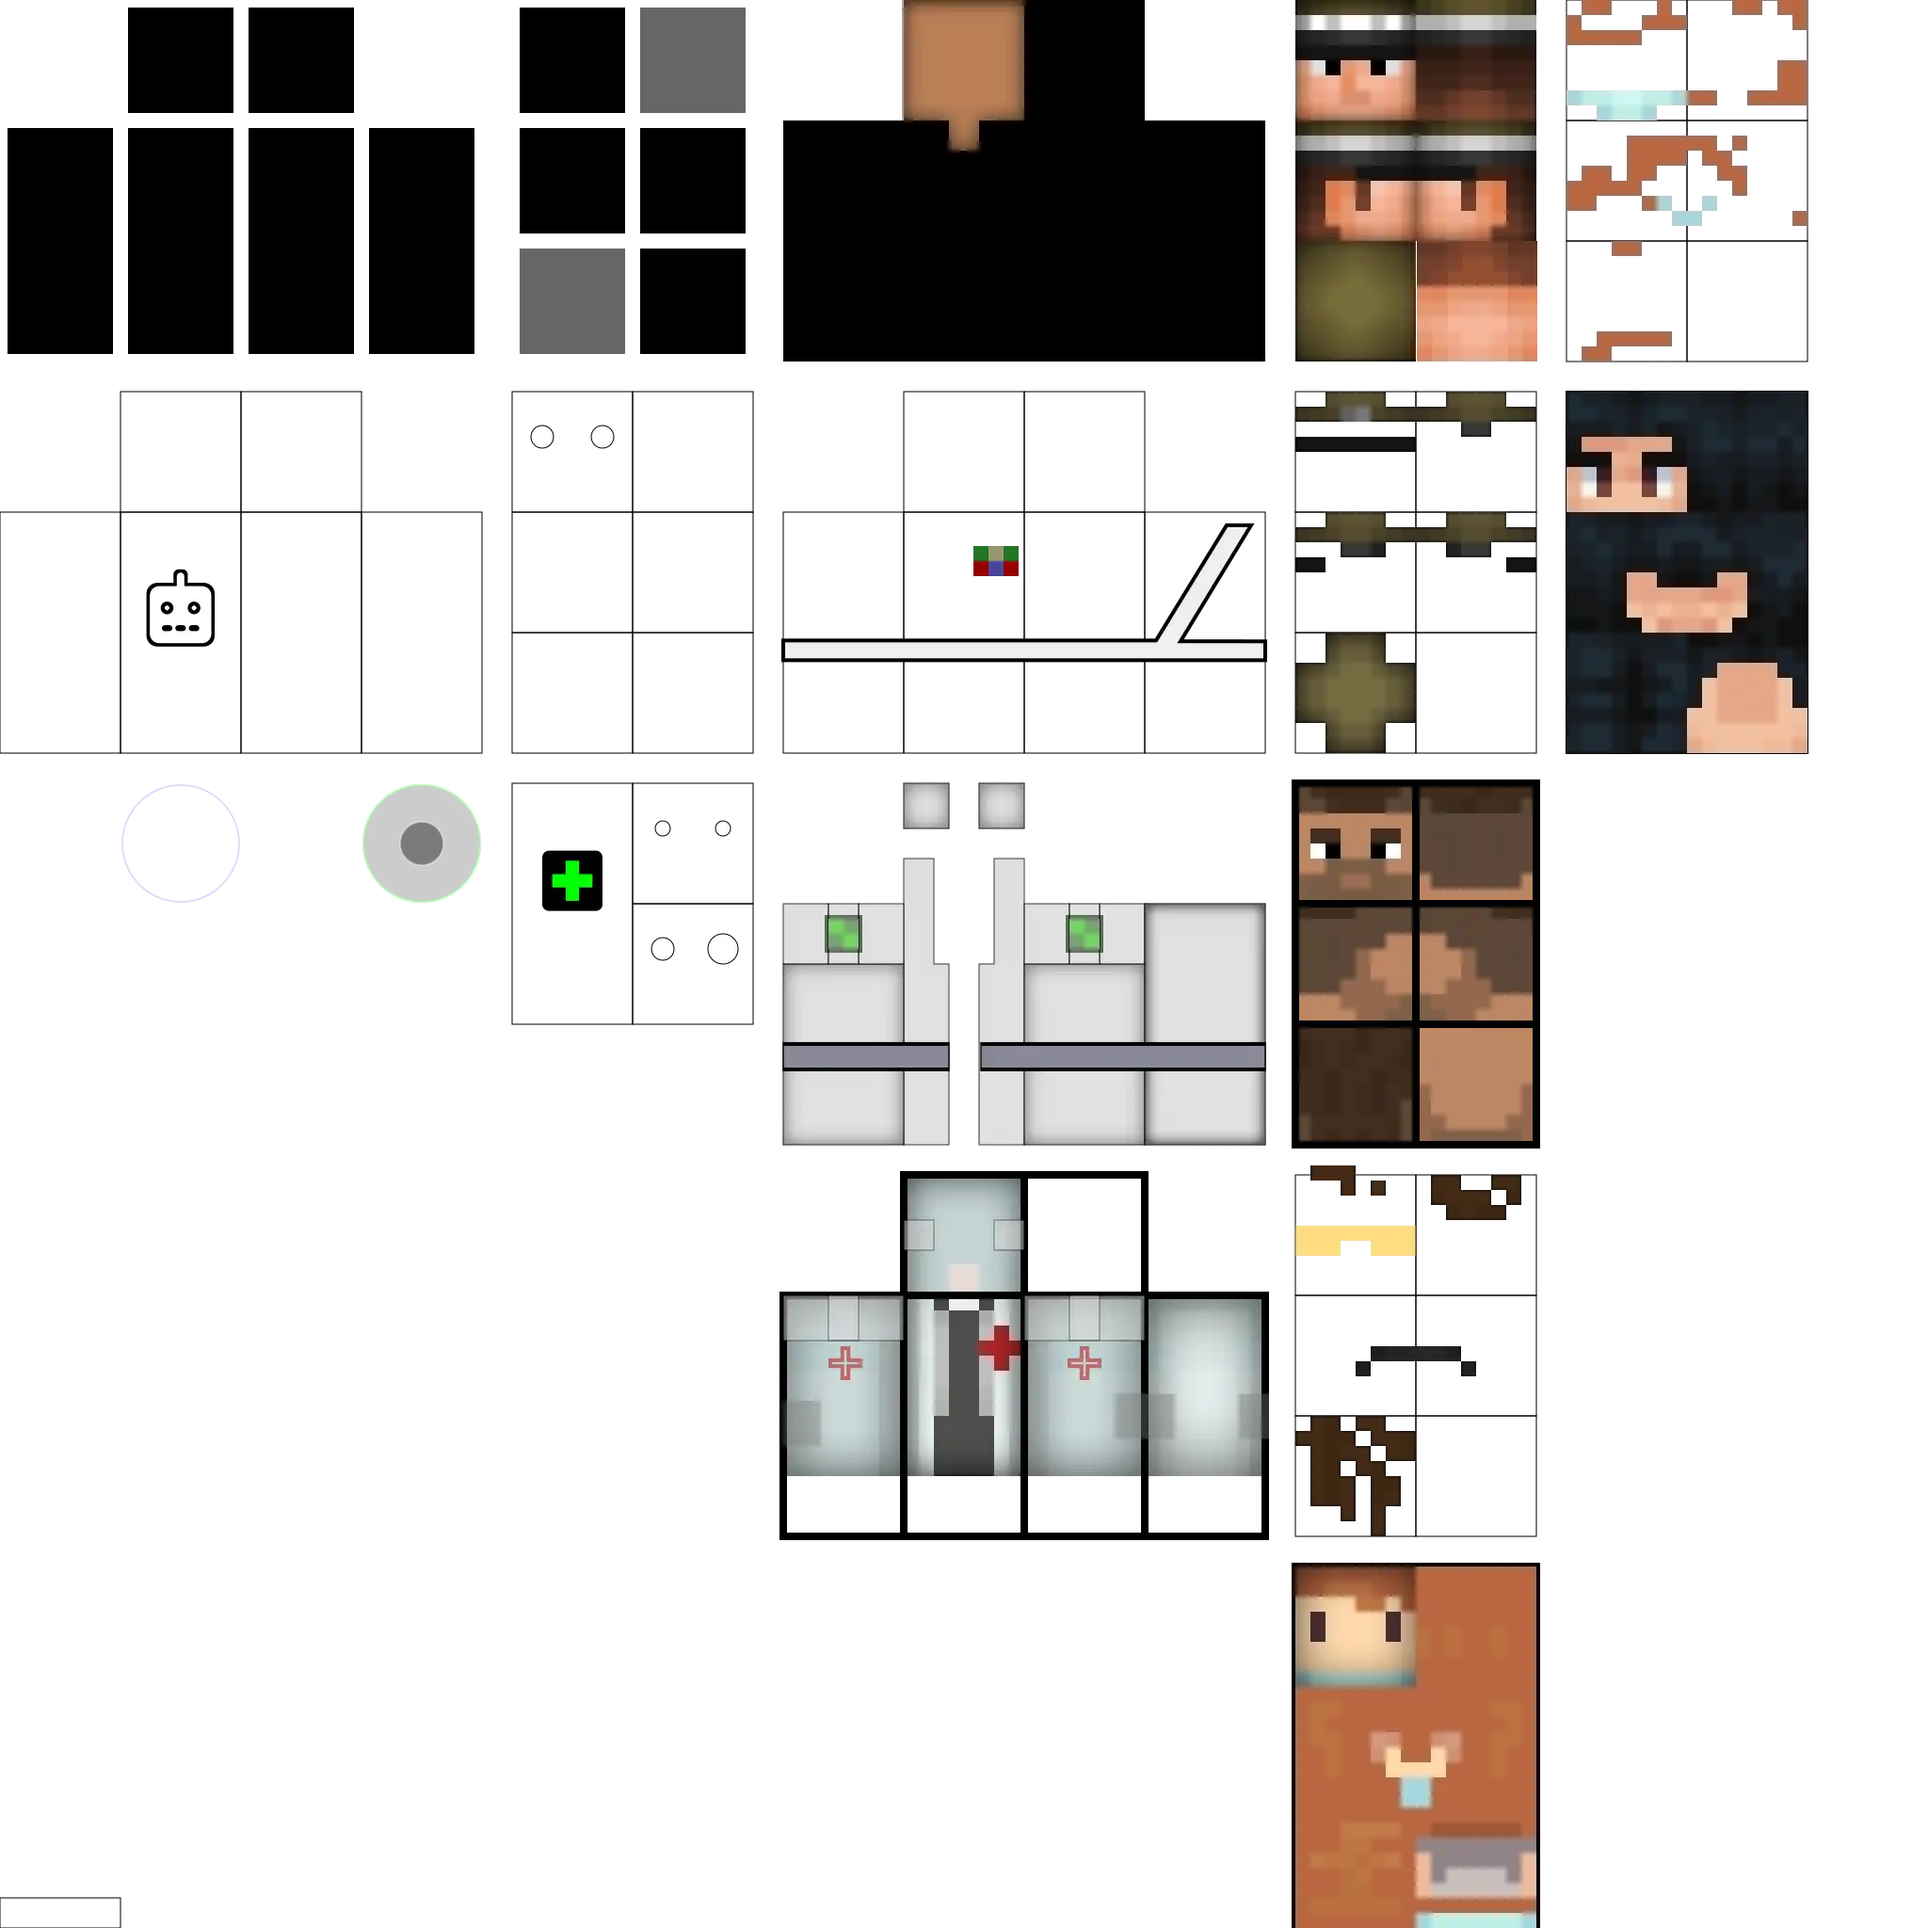
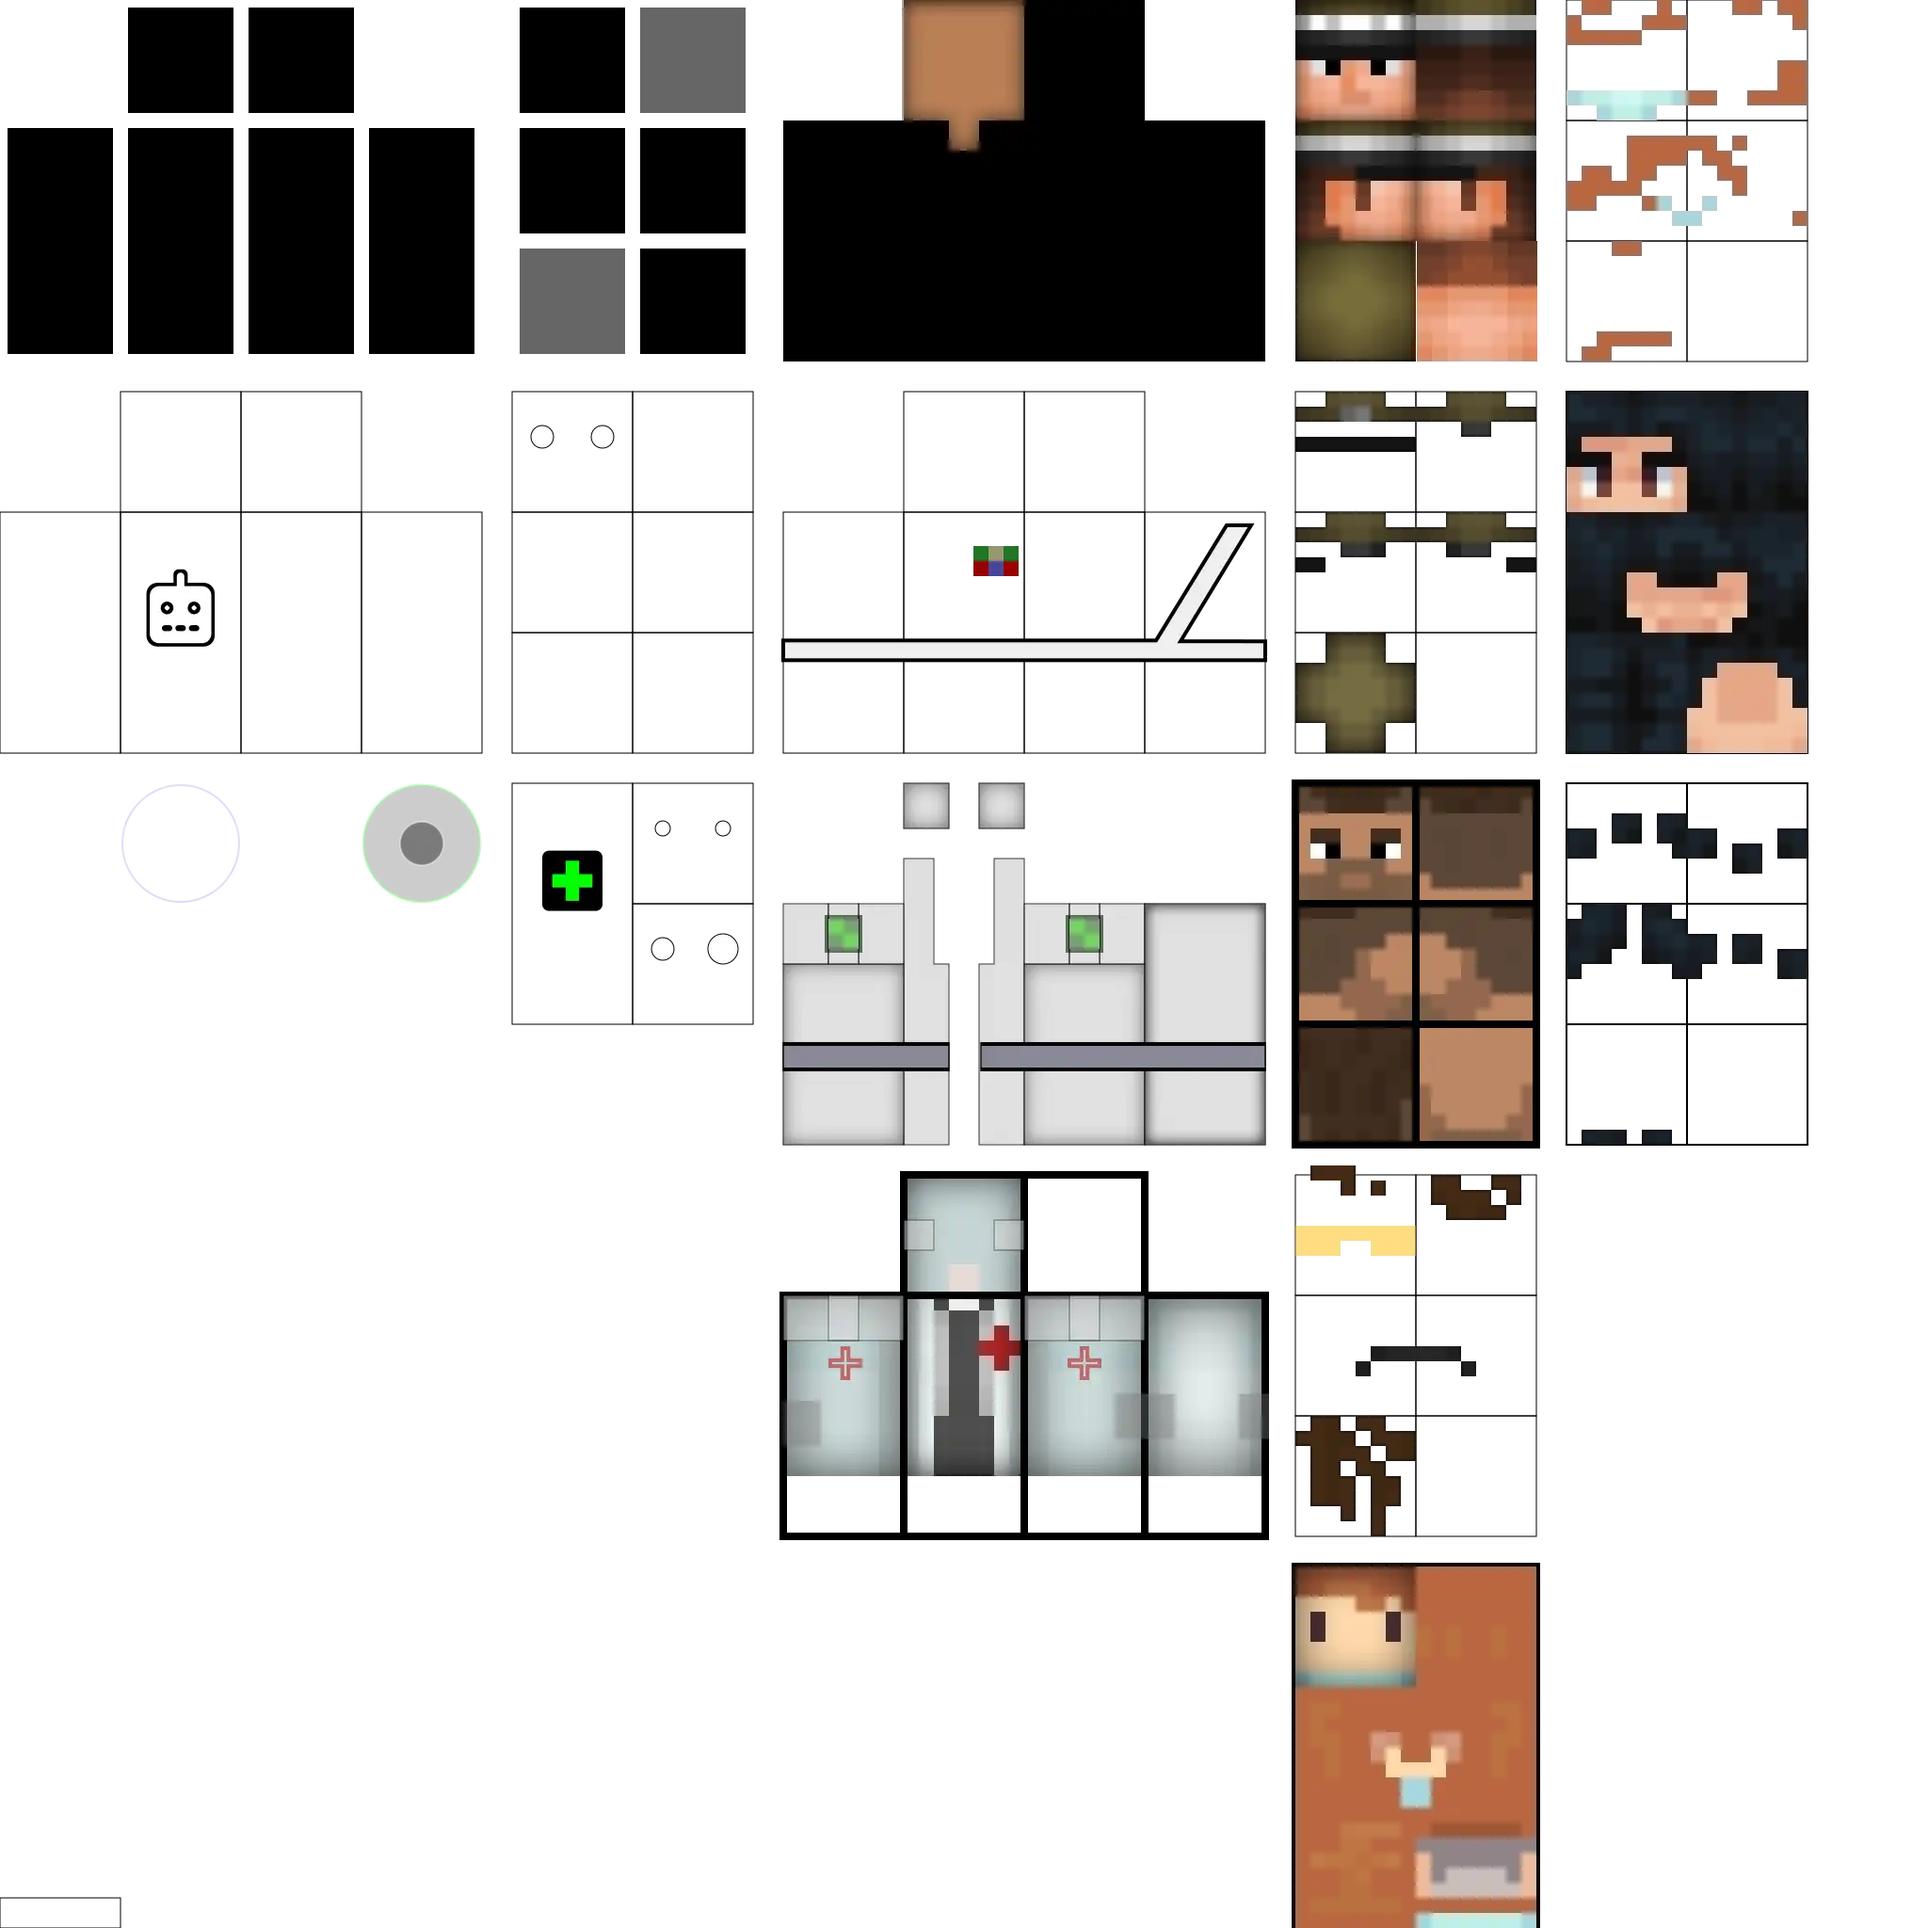
feat: skin: suit-0 has head-overlay

Changed region(s): [[0.8125, 0.4062, 0.9375, 0.5312], [0.8125, 0.5625, 0.875, 0.5938]]

diff --git a/docs/TODO.md b/docs/TODO.md
@@ -136,6 +136,9 @@
 - 🚧 support transform + transform-box fill-box inside e.g. human-0.0.tex.svg
   - https://github.com/Automattic/node-canvas/issues/2507
 
+- can we avoid re-request navmesh onchange skin?
+  - maybe because assets.json is changing due to hash change?
+
 - blog/index -> /blog/home
   - observed caching of local build sending /blog/index -> /blog/ and received 404
   - alternatively could handle /blog/
